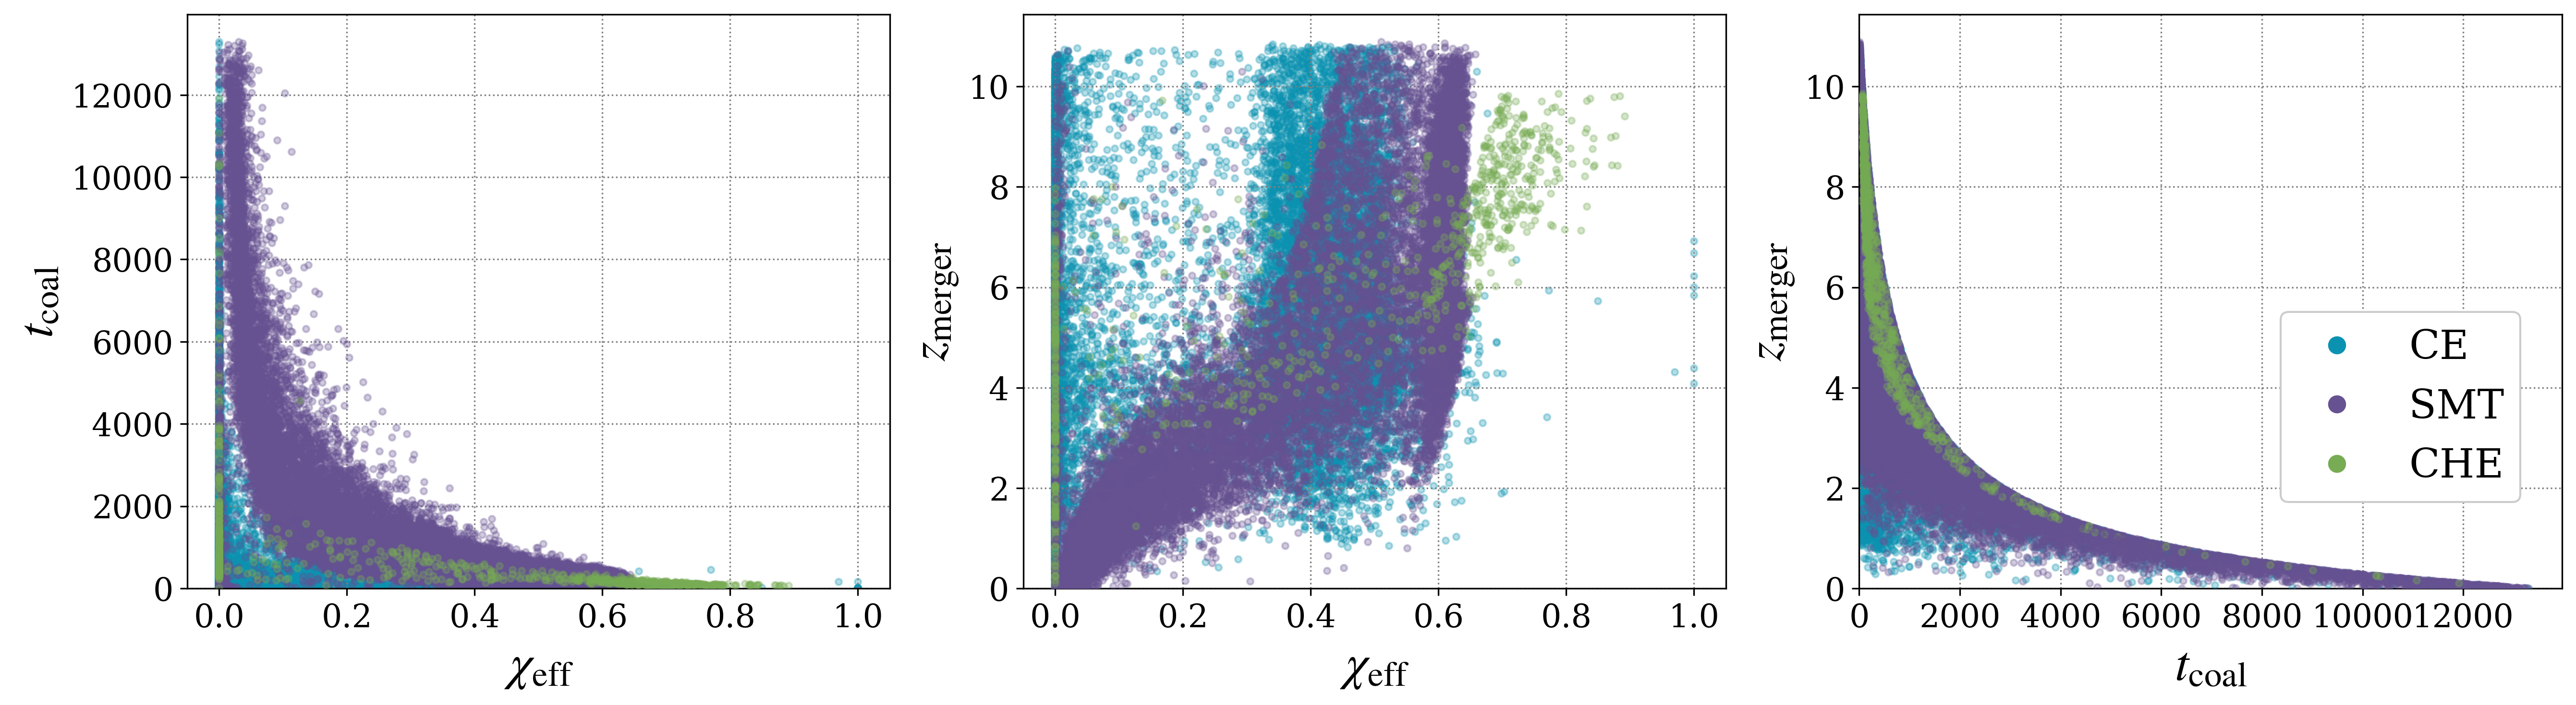
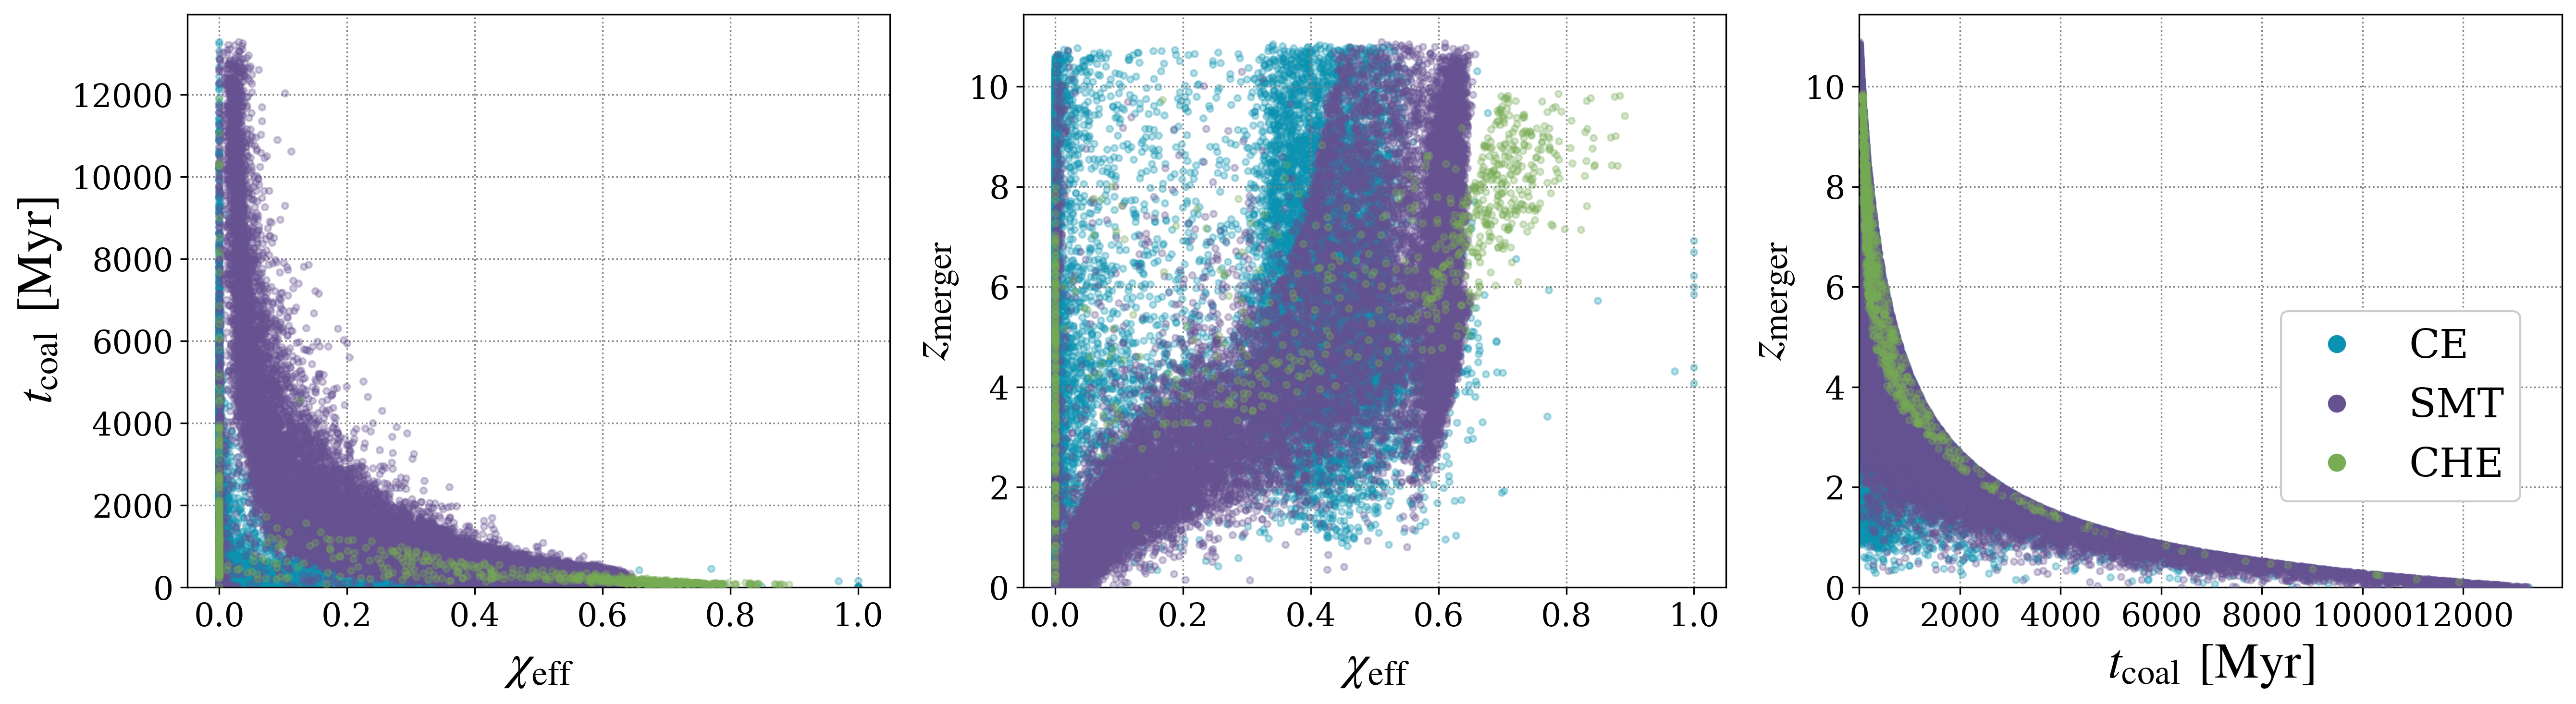
improved tcoal plot

diff --git a/population_gw_detections.py b/population_gw_detections.py
@@ -9,10 +9,6 @@ from astropy import units as u
 from astropy import constants as c
 from astropy.cosmology import Planck18
 
-<<<<<<< Updated upstream
-
-=======
->>>>>>> Stashed changes
 import os
 import scipy
 from collections import Counter
@@ -67,50 +63,12 @@ custom_cycler = (cycler(color=[colorPalette['red'], colorPalette['blue'], colorP
 
 
 # %%
-<<<<<<< Updated upstream
-# pop_names = ['notides', 'realistic', 'perfect']
-# # pop_names = ['realistic', 'perfect']
-# pop_names = ['notides', 'perfect']
-pop_names = ['realistic']
-
-pop_paths = {
-            'notides': 
-                # [
-                # '../pop_sims/notides_pop_v329_0_480k.h5',
-                # '../pop_sims/notides_pop_v329_480k_960k.h5',
-                # '../pop_sims/notides_pop_v329_960k_1440k.h5',
-                # '../pop_sims/notides_pop_v329_1440k_1920k.h5',
-                # '../pop_sims/notides_pop_v329_1920k_3840k.h5',
-                # ],
-                ['../pop_sims/notides_pop_v329_combined.h5'],
-            
-            'realistic':
-                # [
-                # '../pop_sims/realistic_pop_v329_0_480k.h5',
-                # '../pop_sims/realistic_pop_v329_480k_960k.h5',
-                # '../pop_sims/realistic_pop_v329_960k_1440k.h5',
-                # '../pop_sims/realistic_pop_v329_1440k_1920k.h5',
-                # '../pop_sims/realistic_pop_v329_1920k_3840k.h5',
-                # ],
-                ['../pop_sims/realistic_pop_v329_combined.h5'],
-            
-            'perfect':
-                # [
-                # '../pop_sims/perfect_pop_v329_0_480k.h5',
-                # '../pop_sims/perfect_pop_v329_480k_960k.h5',
-                # '../pop_sims/perfect_pop_v329_960k_1440k.h5',
-                # '../pop_sims/perfect_pop_v329_1440k_1920k.h5',
-                # '../pop_sims/perfect_pop_v329_1920k_3840k.h5',
-                # ]
-                ['../pop_sims/perfect_pop_v329_combined.h5'] 
-=======
 pop_names = ['realistic']
 
 pop_paths = {
             'notides': ['../pop_sims/notides_pop_v329_combined.h5'],
             'realistic': ['../pop_sims/realistic_pop_v329_combined.h5'],
             'perfect': ['../pop_sims/perfect_pop_v329_combined.h5'] 
->>>>>>> Stashed changes
             }
 
 pop_labels = {'notides': 'LEGACY',
@@ -134,10 +92,6 @@ mt_labels = [
 branching_labels = {1: 'Primary', 2: 'Secondary', 3: 'Both', 4: 'MT_to_Merger'}
 
 plot_path = 'pop_plots/'
-<<<<<<< Updated upstream
-
-=======
->>>>>>> Stashed changes
 data_path = 'data_files/'
 
 
@@ -157,77 +111,6 @@ for pop_name in pop_names:
 
 
 # %% [markdown]
-<<<<<<< Updated upstream
-# # Get SNRs with GWFast
-
-# %%
-first_pop = pop_spin_dfs[pop_names[0]]
-bbh = first_pop[first_pop['BBH'] & first_pop['Merges_Hubble_Time']].copy()
-
-# %%
-# ── 0. Pull the BBH sample with merger redshifts already computed ─────────
-# (bbh DataFrame with z_merger from the previous cell)
-sample = bbh[bbh['z_merger'].notna()].copy()
-print(f"Processing {len(sample)} BBHs")
-
-# ── 1. Build O4 H1+L1+Virgo network ──────────────────────────────────────
-# gwfast ships O4 ASDs under psds/observing_scenarios_paper/
-# filenames from the Iacovelli+2022 observing scenarios paper
-O4_psds = {
-    'H1':    'aligo_O4high.txt',
-    'L1':    'aligo_O4high.txt',
-    'Virgo': 'avirgo_O4high_NEW.txt',
-}
-
-LVdetectors = {k: copy.deepcopy(glob.detectors[k]) for k in O4_psds}
-for det, fname in O4_psds.items():
-    LVdetectors[det]['psd_path'] = os.path.join(
-        glob.detPath, 'observing_scenarios_paper', fname)
-
-wf = IMRPhenomD()
-
-signals = {
-    det: GWSignal(
-        wf,
-        psd_path      = LVdetectors[det]['psd_path'],
-        detector_shape= LVdetectors[det]['shape'],
-        det_lat       = LVdetectors[det]['lat'],
-        det_long      = LVdetectors[det]['long'],
-        det_xax       = LVdetectors[det]['xax'],
-        verbose       = True,
-        useEarthMotion= False,   # Earth motion negligible for BBH
-        fmin          = 10.,
-        IntTablePath  = None,
-    )
-    for det in LVdetectors
-}
-
-net = DetNet(signals, verbose=True)
-
-# %%
-# ── 2. Build the gwfast event dictionary ─────────────────────────────────
-# gwfast IMRPhenomD parameters: Mc, eta, chi1x, chi1y, chi1z, chi2x, chi2y, chi2z,
-#                                dL, iota, psi, ra, dec, tcoal, Phicoal
-# (non-spin / non-angular params we randomise uniformly — sky pos doesn't matter
-#  for population-level SNR statistics, but gwfast needs them)
-
-N = len(sample)
-rng = np.random.default_rng(42)
-
-m1  = sample['Mass@DCO(1)'].values   # source-frame M_sun
-m2  = sample['Mass@DCO(2)'].values
-z   = sample['z_merger'].values
-
-chi1z = sample['a1'].values * np.cos(sample['iota1'].values)          # dimensionless spin aligned with the orbital angular momentum
-chi2z = sample['a2'].values * np.cos(sample['iota2'].values)
-
-# detector-frame chirp mass and symmetric mass ratio
-Mt  = (m1 + m2) * (1 + z)           # total detector-frame mass
-eta = (m1 * m2) / (m1 + m2)**2
-Mc  = Mt * eta**0.6                  # detector-frame chirp mass
-
-dL  = Planck18.luminosity_distance(z).to(u.Gpc).value   # gwfast wants Gpc
-=======
 # # Detector Network Definitions
 # ─────────────────────────────────────────────────────────────────────────────
 # To add a new network:
@@ -338,7 +221,6 @@ eta = (m1 * m2) / (m1 + m2)**2
 Mc  = Mt * eta**0.6
 
 dL  = Planck18.luminosity_distance(z).to(u.Gpc).value
->>>>>>> Stashed changes
 
 events = {
     'Mc'     : Mc,
@@ -352,107 +234,13 @@ events = {
     'dL'     : dL,
     'iota'   : np.arccos(rng.uniform(-1, 1, N)),
     'psi'    : rng.uniform(0, 2*np.pi,   N),
-<<<<<<< Updated upstream
-    'ra'     : rng.uniform(0, 2*np.pi, N),
-    'dec'    : np.arcsin(rng.uniform(-1, 1, N)),
-    'tcoal'  : rng.uniform(0, 1, N),          # arbitrary reference GPS / GMST
-=======
     'ra'     : rng.uniform(0, 2*np.pi,   N),
     'dec'    : np.arcsin(rng.uniform(-1, 1, N)),
     'tcoal'  : rng.uniform(0, 1, N),
->>>>>>> Stashed changes
     'Phicoal': rng.uniform(0, 2*np.pi, N),
 }
 
 
-<<<<<<< Updated upstream
-# %%
-# ── 3. Compute network SNRs ───────────────────────────────────────────────
-snr_net = net.SNR(events, res=1000)   # shape (N,)
-
-sample = sample.copy()
-sample['SNR_O4'] = snr_net
-
-print(f"Detectable (SNR > 8):  {(snr_net > 8).sum()} / {N}  "
-      f"({100*(snr_net > 8).mean():.1f}%)")
-print(f"Median SNR (all):      {np.median(snr_net):.2f}")
-print(f"Median SNR (det. only):{np.median(snr_net[snr_net > 8]):.2f}")
-
-# %%
-fig, ax = plt.subplots(ncols=1, figsize=(6, 3))
-
-dco_type = 'BBH'
-
-pop_spin_df = sample
-
-a1, a2, m1, m2 = pop_spin_df["a1"], pop_spin_df["a2"], pop_spin_df["Mass@DCO(1)"], pop_spin_df["Mass@DCO(2)"]
-chi_eff_inclination = pop_spin_df['chi_eff']
-snr_o4 = pop_spin_df['SNR_O4']
-
-bins = np.linspace(-0.05, 1.05, 28)
-ax.hist(chi_eff_inclination, bins=bins, density=True, alpha=0.8, histtype='step', lw=3, linestyle='-', label='K26', color=colorPalette['blue'])
-ax.hist(chi_eff_inclination[snr_o4>8], bins=bins, density=True, alpha=0.8, histtype='step', lw=3, linestyle='-', label='K26, SNR$_{\\rm O4a}$ > 8', color=colorPalette['violet'])
-
-# ax.set_title(dco_type, fontsize=20)
-ax.set_xlabel('$\chi_{\\rm{eff}}$', fontsize=20)
-ax.set_ylabel('P$(\chi_{\\rm{eff}})$', fontsize=20)
-# ax.legend(fontsize=20)
-ax.set_xticks(ticks=np.linspace(0, 1, 6))
-# ax.set_yscale('log')
-ax.tick_params(axis='both', which='major', labelsize=20)
-ax.grid()
-
-ax.legend(fontsize=14, loc=(0.5, 0.45))
-
-plt.tight_layout()
-plt.savefig(plot_path+'chi_eff_k26_snr_o4.pdf', dpi=300, bbox_inches='tight')
-
-
-
-# # %%
-# # ── 4. Compute Fisher matrices and covariances (detectable subset only) ───
-# det_mask   = snr_net > 8
-# det_events = {k: v[det_mask] for k, v in events.items()}
-
-# # FisherMatr returns shape (n_params, n_params, N_det)
-# FIM = net.FisherMatr(det_events, res=1000)
-
-# # CovMatr inverts the Fisher matrix with condition-number checks
-# # returns covariance (n_params, n_params, N_det) + inversion error array
-# cov, inv_err = CovMatr(FIM)
-
-
-# # %%
-# # ── 5. Extract 1-sigma parameter errors ───────────────────────────────────
-# ParNums = wf.ParNums   # dict: param_name → row/col index in Fisher matrix
-
-# sigma_Mc  = np.sqrt(cov[ParNums['Mc'],  ParNums['Mc'],  :])   # Gpc (det-frame)
-# sigma_eta = np.sqrt(cov[ParNums['eta'], ParNums['eta'], :])
-# sigma_dL  = np.sqrt(cov[ParNums['dL'],  ParNums['dL'],  :])   # Gpc
-# sigma_chi1z = np.sqrt(cov[ParNums['chi1z'], ParNums['chi1z'], :])
-# sigma_chi2z = np.sqrt(cov[ParNums['chi2z'], ParNums['chi2z'], :])
-# results = pd.DataFrame({
-#     'SNR'         : snr_net[det_mask],
-#     'Mc_det'      : Mc[det_mask],
-#     'dL_Gpc'      : dL[det_mask],
-#     'z_merger'    : z[det_mask],
-#     'sigma_Mc'    : sigma_Mc,
-#     'sigma_eta'   : sigma_eta,
-#     'sigma_dL'    : sigma_dL,
-#     'rel_err_Mc'  : sigma_Mc  / Mc[det_mask],
-#     'rel_err_dL'  : sigma_dL  / dL[det_mask],
-#     'inv_err'     : inv_err,
-#     'sigma_chi1z' : sigma_chi1z,
-#     'sigma_chi2z' : sigma_chi2z,
-# }, index=sample.index[det_mask])
-
-# print(results[['SNR','z_merger','rel_err_Mc','rel_err_dL']].describe().round(4))
-
-# # %%
-
-
-
-=======
 # %% [markdown]
 # # Compute SNRs for All Networks
 # ─────────────────────────────────────────────────────────────────────────────
@@ -640,13 +428,13 @@ for net_name, snr in snr_results.items():
     # panel definitions: (ax, x_data, y_data, xlabel, ylabel, xlim, ylim)
     panels = [
         (axes[0], chi, tcoal,
-         r'$\chi_{\rm eff}$', r'$t_{\rm coal}$ [Myr]',
+         r'$\chi_{\rm eff}$', r'$t_{\rm coal}$ $\rm [Myr]$',
          (-0.05, 1.05), (0, None)),
         (axes[1], chi, z,
          r'$\chi_{\rm eff}$', r'$z_{\rm merger}$',
          (-0.05, 1.05), (0, None)),
         (axes[2], tcoal,  z,
-         r'$t_{\rm coal}$ [Myr]', r'$z_{\rm merger}$',
+         r'$t_{\rm coal}$ $\rm [Myr]$', r'$z_{\rm merger}$',
          (0, None),       (0, None)),
     ]
 
@@ -781,4 +569,3 @@ for net_name, snr in snr_results.items():
 #     plt.savefig(out, dpi=300, bbox_inches='tight')
 #     print("Saved " + out)
 #     plt.close(fig)
->>>>>>> Stashed changes